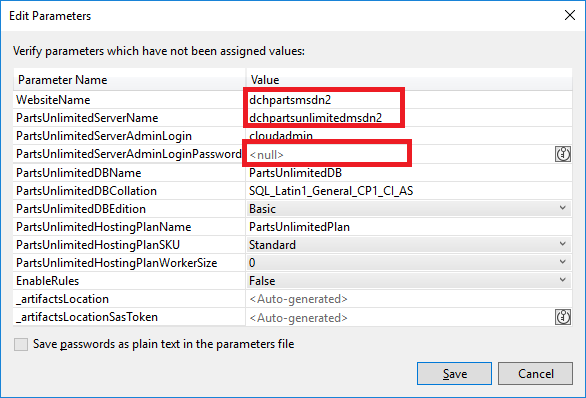
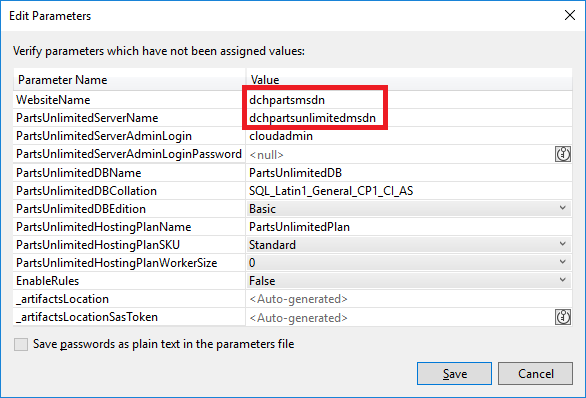
Minor improvements to the documentation. Improved some of the screenshots. Removed unused layerdiagram from the UnitTests project.

Changed region(s): [[0.3993, 0.2111, 0.7065, 0.4221]]

diff --git a/docs/HOL_GettingStarted/README.md b/docs/HOL_GettingStarted/README.md
@@ -40,9 +40,10 @@ Here are the tools that should be installed:
 
 ### Clone the repository
 
- In this step, you will clone the source code repository from Github using Visual Studio. You will also checkout the aspnet45 branch where the relevant code is located.
+ In this step, you will clone the source code repository from Github using Visual Studio. The relevant code is in the aspnet45 branch which is the default branch for the repository.
 
 - Open Visual Studio 2017 and open the Team Explorer.
+- In the top menu, go to View->Team Explorer
 - Select the manage connection button
 
   ![](images/ManageConnections.png)
@@ -69,7 +70,7 @@ Now that we have cloned the source code, we are ready to open the solution, buil
 Now that we know that our application runs locally, we can move to deploying it to Azure. Before we think about deploying it though, we must create the environment in Azure that will host our application.
 
 - Go to the Azure Portal [here](https://portal.azure.com) and sign in with your Azure credentials.
-- Create a resource group that will contain all the Azure services related to our deployment. Whenver we need to deploy resources for this manual deployment step, we will pick this resource group as the target.
+- Create a resource group that will contain all the Azure services related to our deployment. Whenever we need to deploy resources for this manual deployment step, we will pick this resource group as the target.
   - Select the resource group tab on the left as shown below.
 
     ![](images/SelectRG.png)
@@ -83,13 +84,18 @@ Now that we know that our application runs locally, we can move to deploying it 
   - Select Web + Mobile and then Web App as shown below.
 
     ![](images/NewWebApp.png)
-  - Fill in the form for the creation of the Web App. Make sure to reuse the resouce group that you have created previously and also to select "On" for Application Insights creation since we will leverage it later on to monitor our application.
+  - Fill in the form for the creation of the Web App. Make sure to reuse the resouce group that you have created previously and also to select "On" for Application Insights creation since we will leverage it later on to monitor our application. Do not press the Create button yet and move to the next step.
 
     ![](images/WebAppWizard.png)
 
-    Create a new App Service Plan that will define the compute resources that will power your Web App. Press the Create New button to open the App Service Plan creation wizard. For our needs, you can select any pricing tier except Isolated. Don't hesitate to pick beefier tiers since the Web App will be deleted after we are done with it. Make sure that the location matches the one from the resource group as we want to colocate our resources to minimize the latency. Press OK to return to the Web App creation wizard.
+    We will now create the App Service Plan that defines the compute resources that will power the Web App.
+    - Select the "App Service plan/Location" menu
+    - Press the Create New button to open the App Service Plan creation wizard. For our needs, you can select any pricing tier except Isolated.
+      > Don't hesitate to pick beefier tiers since the Web App will be short lived anyway. This is one way where we can benefit from the elasticity of the cloud!
 
-    ![](images/NewAppServicePlan.png)
+    - Make sure that the location matches the one from the resource group as we want to colocate our resources to minimize the latency. Press OK to return to the Web App creation wizard.
+
+      ![](images/NewAppServicePlan.png)
   - Press Create to launch the creation of the resource. This will take a short moment to complete. You can continue to the next step while it completes.
 - It is now time to create the Azure SQL Database that will serve has the datastore for our Web App.
   - Press the new button on the top left as shown below.
@@ -98,16 +104,21 @@ Now that we know that our application runs locally, we can move to deploying it 
   - Select Databases and then SQL Database as shown below.
 
     ![](images/NewDatabase.png)
-  - Follow the creation wizard and fill in the parameters as shown below. A Basic tier database will suffice for our needs, but feel free to pick a larger one for more performance. Select the same resource group as we have been working with. As part of the creation, you will have to create a new Database Server. The name will have to be unique. Double check that the server is deployed in the same location as the Web App to ensure minimal latency and to avoid being charged for outbound data transfer!
+  - Follow the creation wizard and fill in the parameters as shown below. Select the same resource group as we have been working with. 
+    - A Basic tier database will suffice for our needs, but feel free to pick a larger one for more performance.
 
     ![](images/DatabaseWizard.png)
-    > Note: Later on, you can leverage the credentials that you have just added to connect with SQL Management Studio. To do that you will first have to whitelist your public IP in the SQL Server settings in the Azure Portal.
+  - As part of the creation, you will have to create a new Database Server.
+    - The name will have to be unique.
+    - Double check that the server is deployed in the same location as the Web App to ensure minimal latency and to avoid being charged for outbound data transfer!
+
+    > Note: Later on, you can connect with SQL Management Studio or other tools to the Azure SQL Server. To do that you will first have to whitelist your public IP in the SQL Server settings in the Azure Portal.
+
   - Press the Create button to launch the database creation. It will take a short moment to complete.
   - After the database creation has completed, open this SQL Database resource in the Azure Portal and then copy the connection string from the SQL Server Resource as shown below and replace the username and password field with the proper values used to created the database server previously.
 
     ![](images/ShowConnectionString.png)
-  - We will configure the Web App with this connection string. To do so, open the Web App resource in the Azure Portal.
-  - Click on the Application Settings Tab as shown below.
+  - We will configure the Web App with this connection string. To do so, open the Web App resource in the Azure Portal and then click on the Application Settings tab as shown below.
 
     ![](images/AppSettings.png)
   - Add a new connection string named "DefaultConnectionString" as shown below. Make sure that the username and password values are correct. Press the Save button above when you are done.
@@ -118,27 +129,33 @@ Now that we know that our application runs locally, we can move to deploying it 
 
 Now that you have seen how to deploy resources to Azure with the Azure Portal, we will levage Azure Resource Manager templates to programatically deploy the same resources. You will notice how it makes it easier to deploy identical environment for development, testing, production, etc...
 
-- In the Solution Explorer, expand the "env" solution folder and right click the PartsUnlimitedEnv project. Select Deploy->New... as shown below
+- In the Solution Explorer, expand the "env" solution folder and right-click the PartsUnlimitedEnv project. Select Deploy->New... as shown below
 
   ![](images/NewDeploymentVS.png)
 - Follow the deployment wizard and fill in the parameters as shown below. In the Resource Group field, make sure that you create a new one and don't deploy on top of our previous deployment.
 
+  > Make sure that the resource group name respects these contraints: starts and ends with a lower case letter or a number and has in between a lower case letter, number or dash with no consecutive dashes and is 3 through 48 characters long.
+
   ![](images/DeployWizardVS.png)
 - Press the Deploy button to move forward and open the configuration parameters of the deployment.
-- Configure the deployment by editing the parameters. WebsiteName and PartsUnlimitedServerName must be globally unique since they will be used as part of a URL. Enter a password in the field PartsUnlimitedServerAdminLoginPassword that meets the requirements [here](https://docs.microsoft.com/en-us/sql/relational-databases/security/strong-passwords)
+- Configure the deployment by editing the parameters. WebsiteName and PartsUnlimitedServerName must be globally unique since they will be used as part of a URL. Leave the password field empty.
 
   ![](images/DeployParametersVS.png)
 - Press the Save button to launch the deployment. It will take a few minutes to complete.
+- During the deployment, you will be requested to input a password. Make sure that it respects these [contraints](https://docs.microsoft.com/en-us/sql/relational-databases/security/strong-passwords). 
+  > If you have PowerShell Tools for Visual Studio 2017 installed, a popup within Visual Studio will request the password. If you don't have PowerShell Tools for Visual Studio 2017 installed, a powershell windows will spawn (possibly behind Visual Studio) to request the password.
 
 ### Deploy our application to Azure
 
 We now have two environemnts. One that was created manually and the other one which was created using ARM templates.
 
-- Return to Visual Studio right click on the project PartsUnlimitedWebsite and then select Publish menu.
+- In Visual Studio, right-click on the project PartsUnlimitedWebsite and then select Publish.
 - Pick "Select Existing" then press the Publish Button to continue.
 - Select either of the Web Apps that we have previously created and complete the publication wizard.
 - Your Web App should now open and after a minute should display correctly. You might have to refresh once if you get an error to give time for the Web App to start and populate the database.
-- Once the publication is done, repeat these previous steps to publish to the other Web App.
+- Once the publication is done, repeat these previous steps to publish to the other Web App. You will have to create a new profile as shown below.
+
+  ![](images/CreateNewPublishProfile.png)
 
 ### Basic monitoring with Application Insights
 
@@ -150,15 +167,20 @@ Now that we have our web application running in Azure, we can start playing with
 - In the case of the deployment with ARM templates, the Application Insights resource is not mapped with our Web App. To do so, simply select the proper resource in the window shown below.
 
   ![](images/BindAppInsightWithWebApp.png)
-- Now that Application Insight is properly mapped, you should see requests timing and an option to open Application Insight. Feel free to open it and play around to discover what application insight can offer!
+- Now that Application Insight is properly mapped, you should see requests timing and an option to "VIEW MORE IN APPLICATION INSIGHTS". Feel free to open it and play around to discover what application insight can offer!
+  - Explore the Application Map section
+  - Explore the Live Metrics Stream section
+  - Explore the Performance section and consider enabling the Application Insights Profiler to idententify bottlenecks
 
 ### Conclusion
 
 Today you have learned the basic of deploying a Web Application to Azure with Azure Web Apps. Hopefully you found it easy and want to explore further.
 
-#### More reading:
+#### More reading
+
 - [Here](https://www.visualstudio.com/en-us/docs/overview) you can find more documentation on the Visual Studio tooling to plan, build, deploy and monitor your application.
 - [Here](https://docs.microsoft.com/en-us/azure/) you can find the relevant Azure documentation with quick starts, tools, SDK and the detailed documentation to get started.
-- [Microsoft Virtual Academy](https://mva.microsoft.com/)
-- [Microsoft Learning](https://www.microsoft.com/en-us/learning/azure-skills-training.aspx)
-- [Training and certification for Azure](https://azure.microsoft.com/en-us/training/)
+- Training material:
+  - [Microsoft Virtual Academy](https://mva.microsoft.com/)
+  - [Microsoft Learning](https://www.microsoft.com/en-us/learning/azure-skills-training.aspx)
+  - [Training and certification for Azure](https://azure.microsoft.com/en-us/training/)
